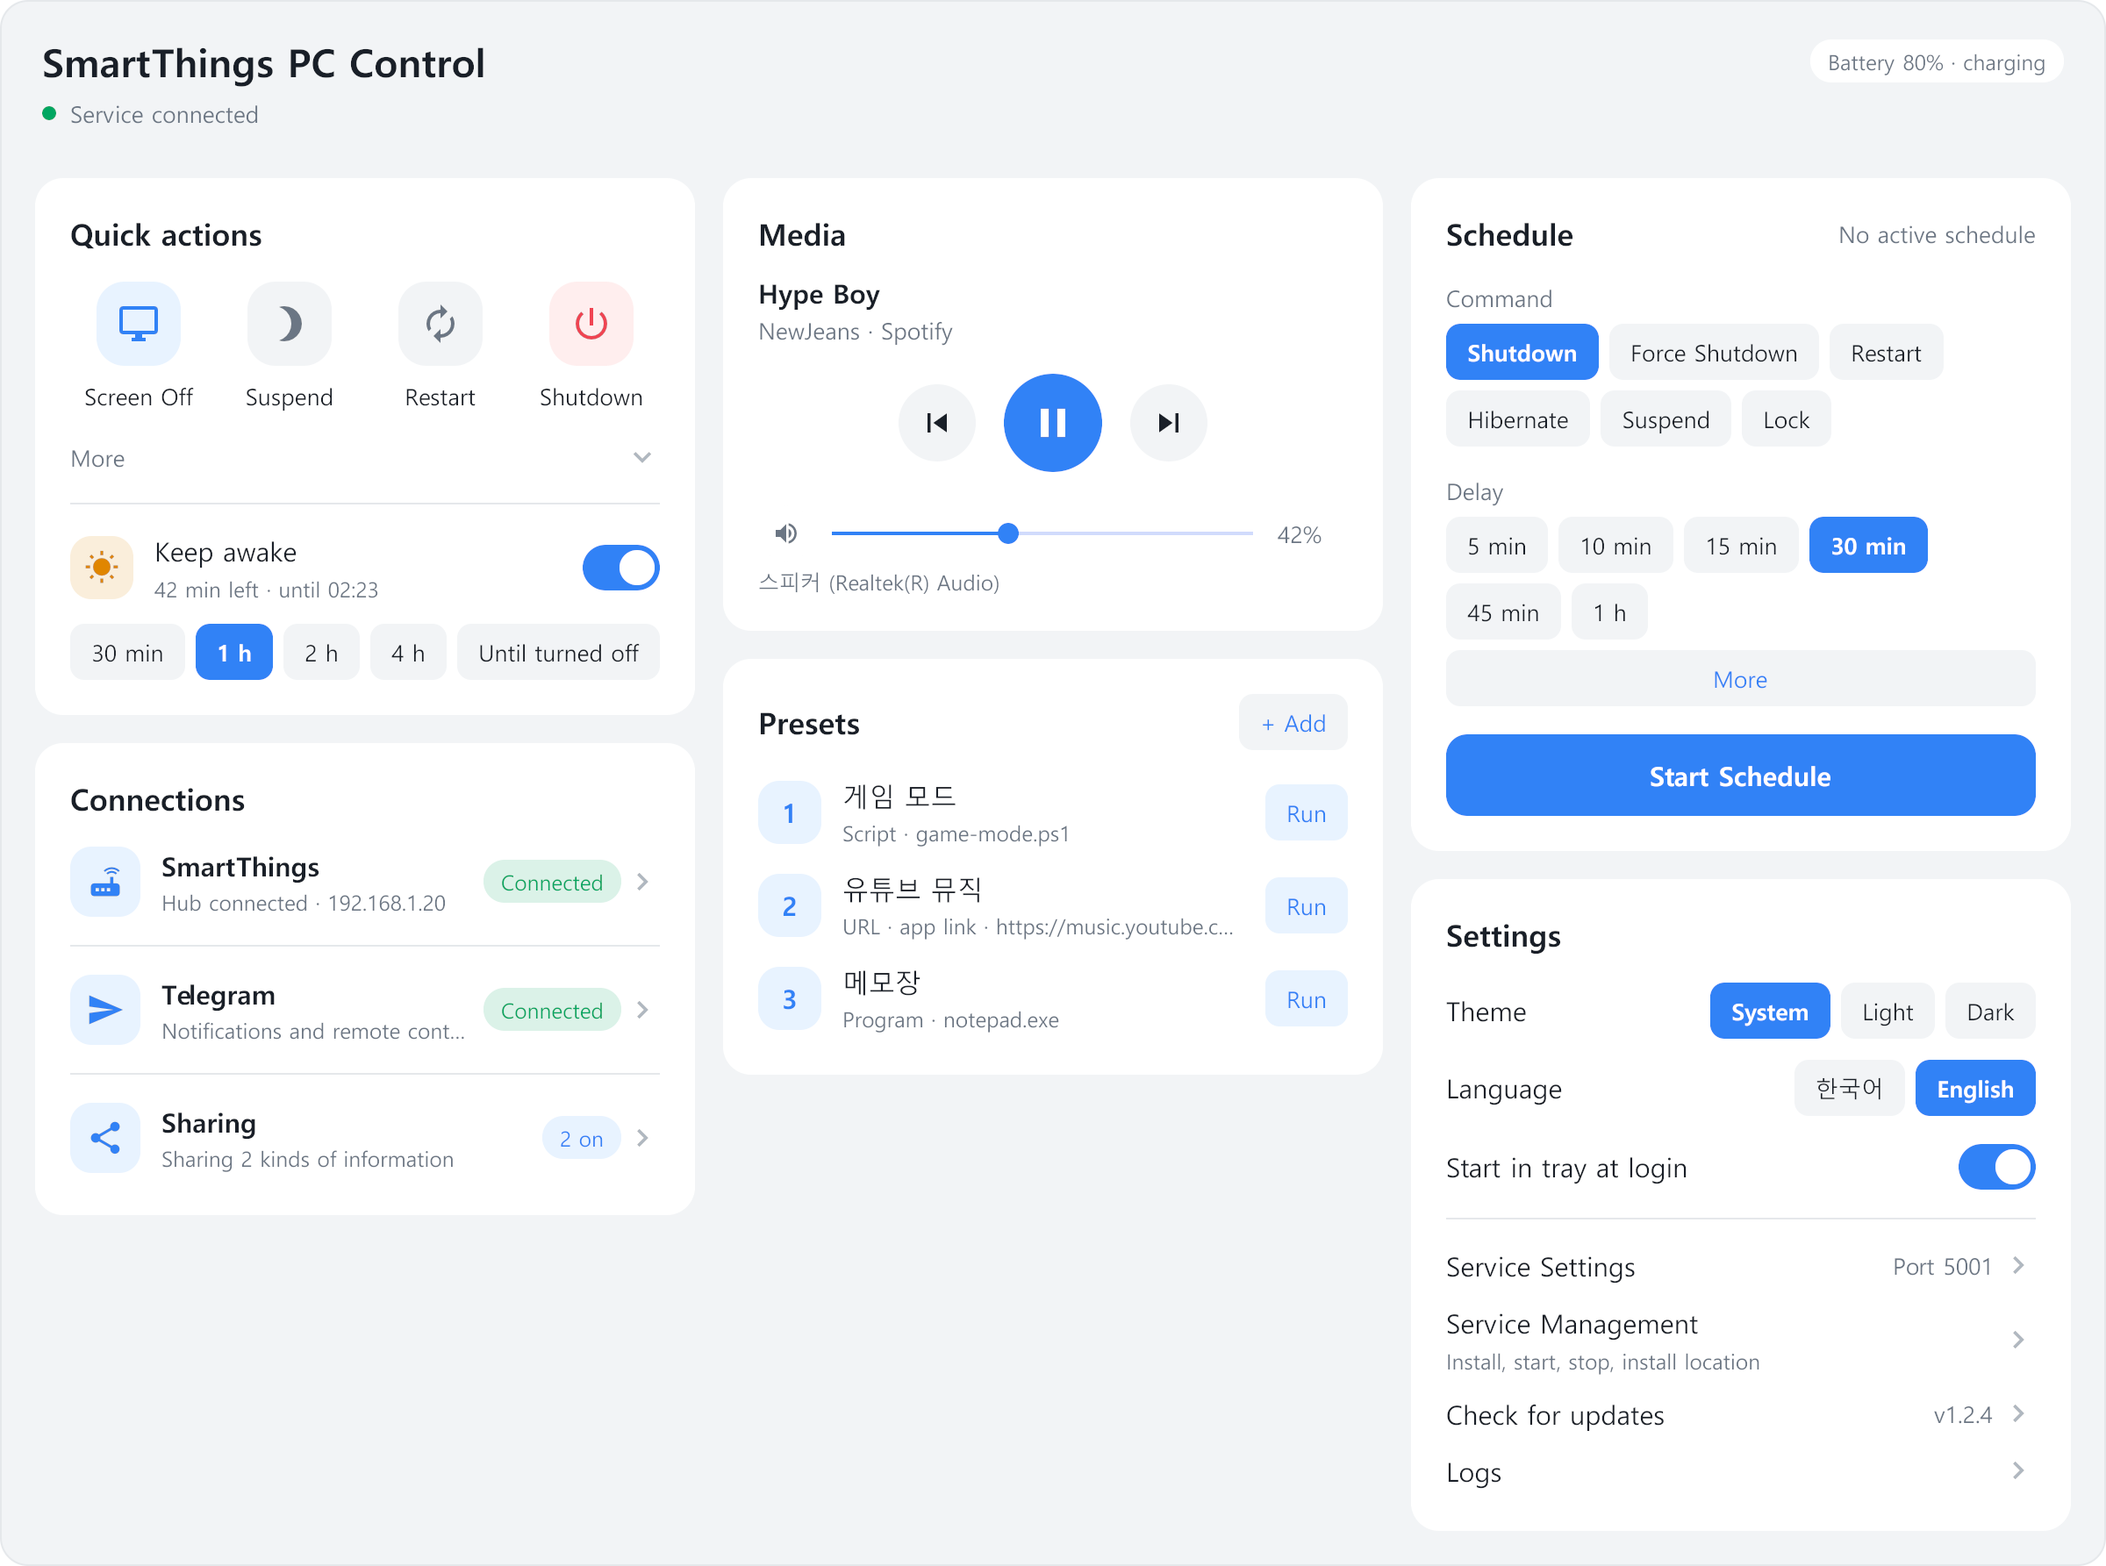
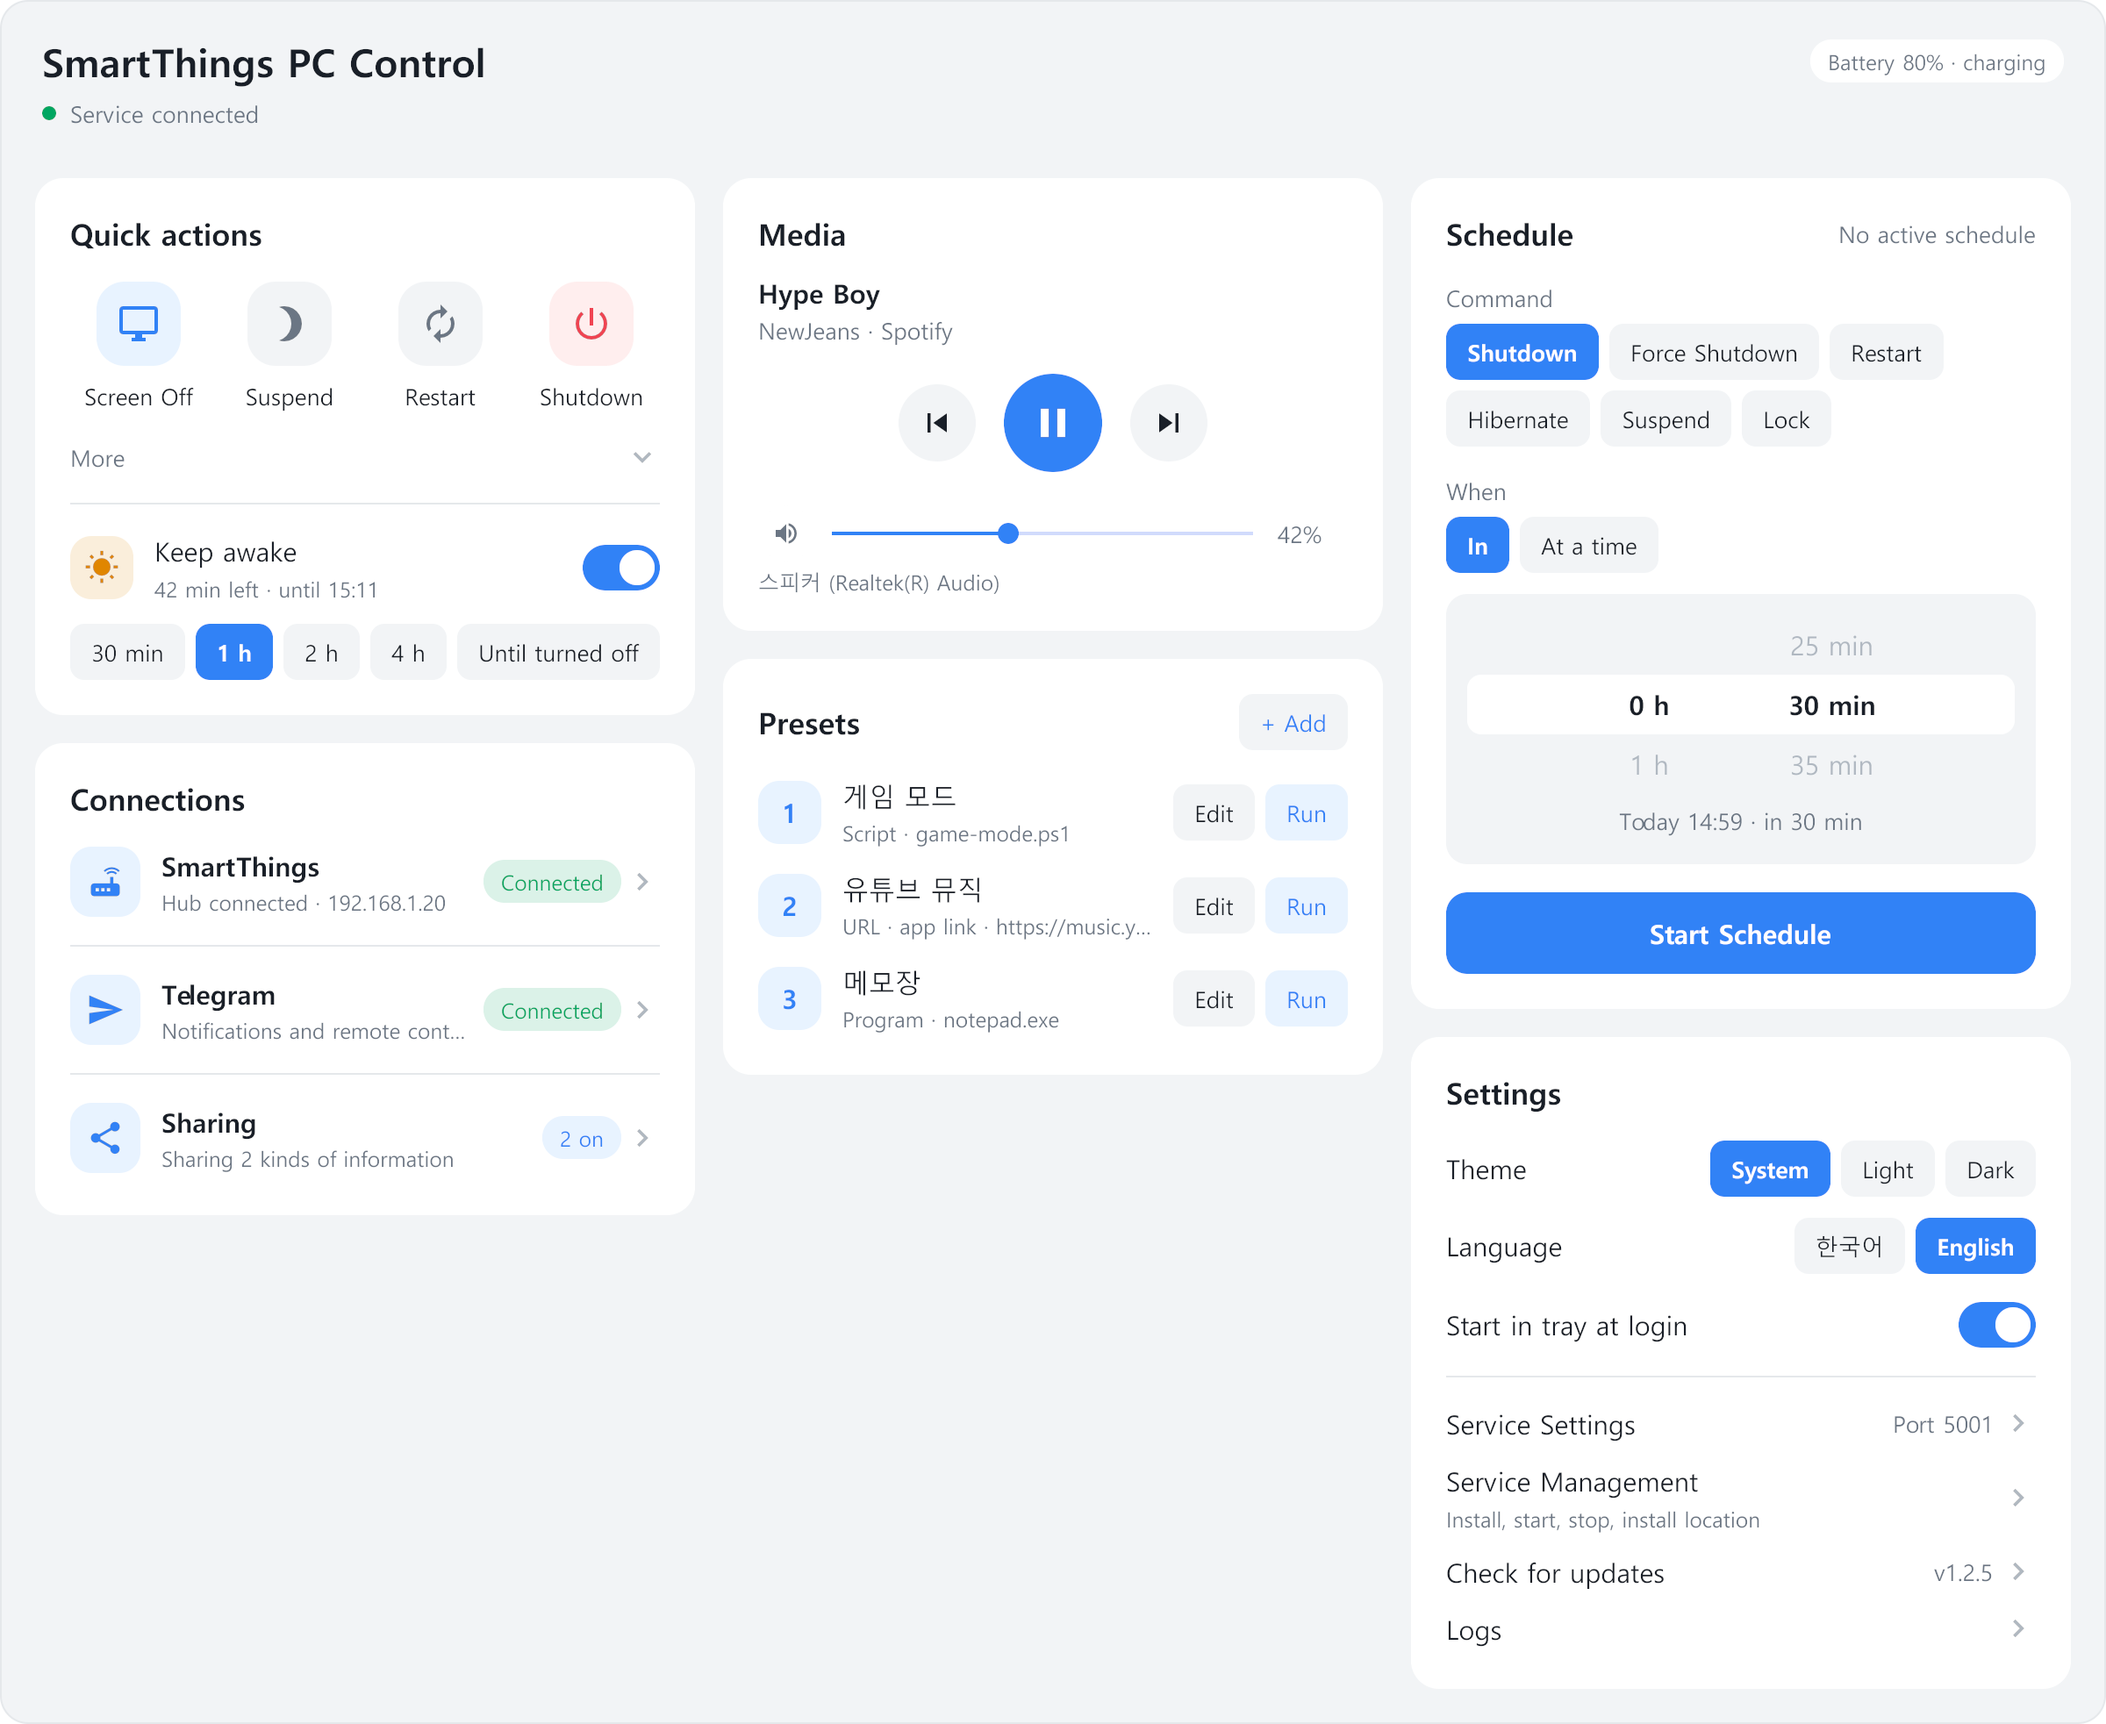
docs: README hero shots and the schedule line for v1.2.5

diff --git a/ui/shots_test.go b/ui/shots_test.go
@@ -120,7 +120,7 @@ func sampleUI(lang gui.Lang, dark bool) *UI {
 	if dark {
 		p.Set(prefTheme, "dark")
 	}
-	u := New(fakeAPI{}, "v1.2.4", p, func() {})
+	u := New(fakeAPI{}, "v1.2.5", p, func() {})
 	u.th = newTheme()
 	u.setDark(dark)
 	vol, muted, dev := 42, false, "스피커 (Realtek(R) Audio)"

diff --git a/README.md b/README.md
@@ -33,7 +33,7 @@ exe 하나로 설치하고, 로그인하지 않아도 항상 대기해요.
 |---|---|
 | ⚡ **전원** | 종료 · 재시작 · 절전 · 최대 절전 · 잠금 · 화면 끄기/켜기. 원격 종료는 유예(기본 5분) 동안 어디서든 취소할 수 있어요. |
 | 📡 **진짜 전원 상태** | SmartThings 앱에 켜짐 · 절전 · 최대 절전 · 꺼짐 · 깨우는 중 · 종료 대기가 그대로 보여요. |
-| ⏰ **깨우기와 예약** | 스위치를 켜면 Wake-on-LAN으로 PC를 깨워요. 5분부터 3일 뒤까지 예약하고 언제든 취소해요. |
+| ⏰ **깨우기와 예약** | 스위치를 켜면 Wake-on-LAN으로 PC를 깨워요. 앱에서는 7일 뒤까지(SmartThings 앱에서는 3일) 예약하고, PC를 재부팅해도 예약이 남아요. 언제든 취소할 수 있어요. |
 | ☀ **잠들지 않기** | 정한 시간 동안 자동 절전을 막아요. 직접 보낸 종료 · 절전은 그대로 실행돼요. |
 | 🔊 **볼륨 · 미디어** | 볼륨 · 음소거, 재생 · 일시정지 · 이전/다음 곡. 재생 정보 공유는 켤 때만 보내요. |
 | 💬 **PC 알림** | SmartThings 루틴이나 텔레그램 `/say`로 PC 화면에 문구를 띄워요. |

diff --git a/README.en.md b/README.en.md
@@ -33,7 +33,7 @@ One exe to install, and it is ready even before anyone signs in.
 |---|---|
 | ⚡ **Power** | Shutdown, restart, sleep, hibernate, lock, screen off/on. A remote shutdown waits out a grace period (5 min by default) you can cancel from anywhere. |
 | 📡 **Real power state** | The SmartThings app shows on, asleep, hibernating, off, waking and shutdown pending as they are. |
-| ⏰ **Wake and schedule** | Turning the switch on wakes the PC with Wake-on-LAN. Schedule a command 5 minutes to 3 days ahead, and cancel it any time. |
+| ⏰ **Wake and schedule** | Turning the switch on wakes the PC with Wake-on-LAN. Schedule a command up to 7 days ahead in the app (3 days from the SmartThings app); it survives a reboot, and you can cancel it any time. |
 | ☀ **Keep awake** | Hold off idle sleep for a while. Shutdown and sleep you ask for still happen. |
 | 🔊 **Volume and media** | Volume, mute, play/pause, next and previous. Sharing what is playing is opt-in. |
 | 💬 **PC notifications** | A SmartThings routine or Telegram `/say` puts a line of text on the PC's screen. |
